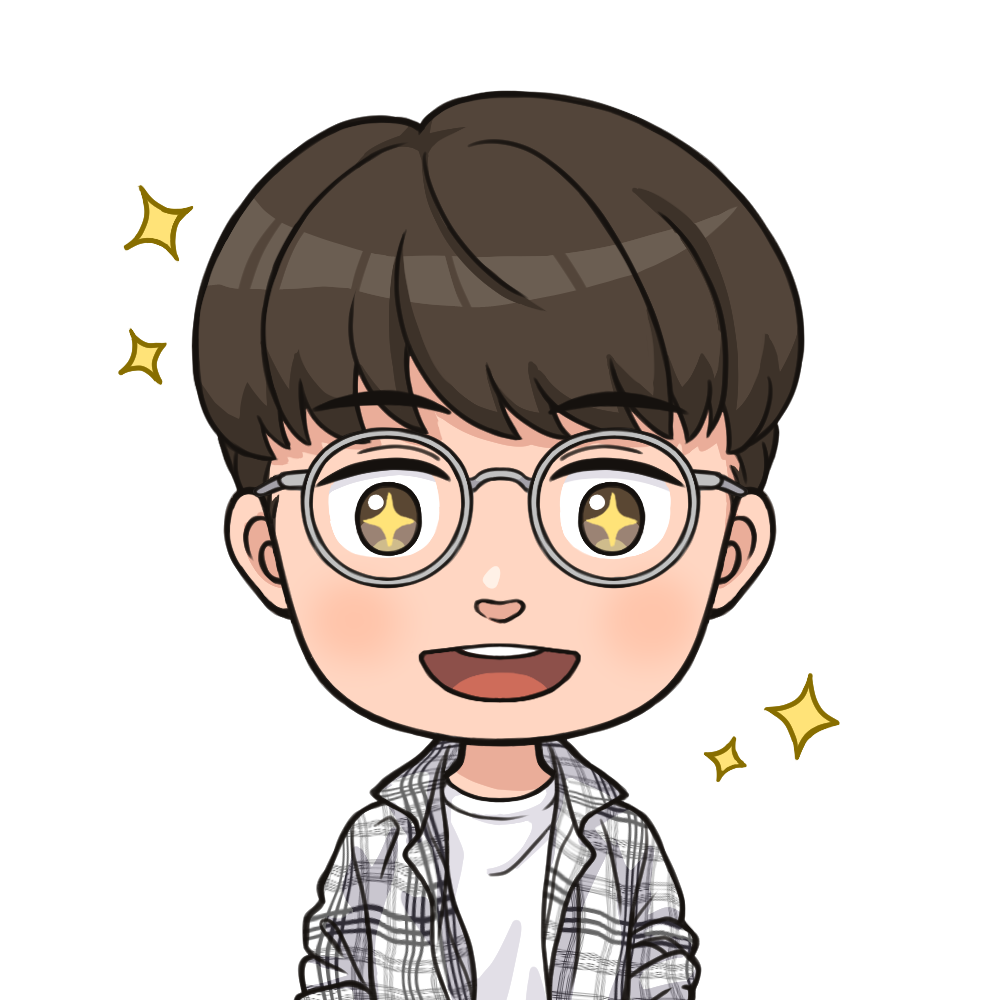
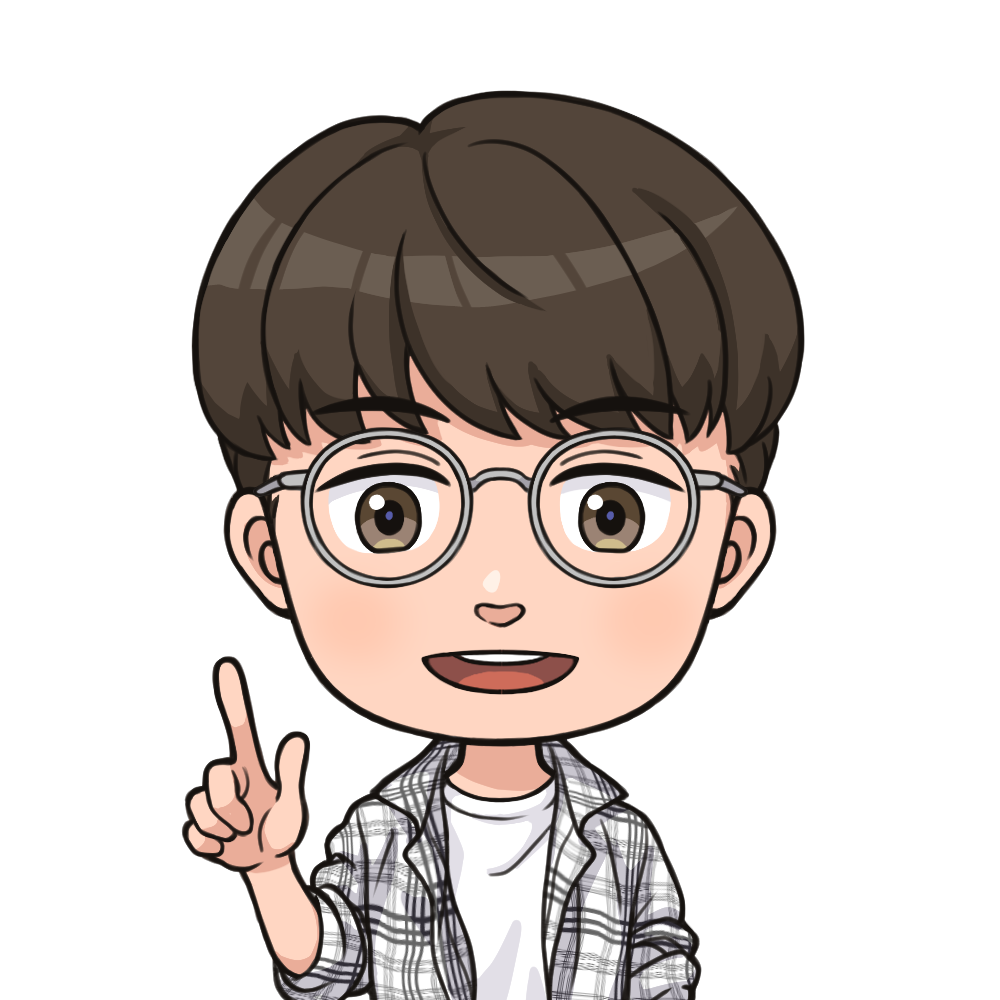
ステージ選択→キャラ選択の順に変更・4キャラ構成に整理・選択画面レイアウト改善・あべむつき画像差し替え・画像キャラのフワフワ動きを控えめに調整

diff --git a/giraffe-star-land.html b/giraffe-star-land.html
@@ -66,18 +66,21 @@ canvas{display:block}
 @keyframes pulse{0%,100%{box-shadow:0 3px 12px rgba(0,0,0,0.3)}50%{box-shadow:0 3px 20px rgba(255,0,0,0.5)}}
 #back-btn{margin-top:14px;background:rgba(255,255,255,0.25);border:2px solid rgba(255,255,255,0.4);color:#fff;padding:10px 36px;border-radius:20px;font-size:16px;cursor:pointer}
 #char-select{position:fixed;inset:0;z-index:20;display:none;flex-direction:column;align-items:center;justify-content:center;background:linear-gradient(180deg,#7AC4E6 0%,#4A90B8 50%,#7EC87E 100%)}
-#char-select h2{font-size:30px;color:#fff;text-shadow:2px 2px 0 rgba(0,0,0,0.3);margin-bottom:18px}
-#char-grid{display:grid;grid-template-columns:repeat(4,1fr);gap:12px;width:min(440px,92vw)}
-.char-card{display:flex;flex-direction:column;align-items:center;gap:4px;padding:12px 4px;border:none;border-radius:16px;background:rgba(255,255,255,0.92);cursor:pointer;box-shadow:0 3px 10px rgba(0,0,0,0.25);transition:transform 0.12s}
-.char-card:active{transform:scale(0.94)}
-.char-emoji{font-size:34px;line-height:1}
-.char-thumb{width:46px;height:46px;border-radius:50%;object-fit:cover;background:#fff}
-.char-name{font-size:12px;font-weight:bold;color:#2a3a4a}
-.char-card.locked{background:rgba(255,255,255,0.35);cursor:not-allowed}
+#char-select h2{font-size:clamp(30px,4.5vw,48px);color:#fff;text-shadow:2px 3px 0 rgba(0,0,0,0.3);margin-bottom:clamp(24px,4vh,44px)}
+#char-grid{display:grid;grid-template-columns:repeat(4,1fr);gap:clamp(14px,2vw,28px);width:min(1000px,92vw)}
+.char-card{display:flex;flex-direction:column;align-items:center;justify-content:center;gap:14px;padding:clamp(20px,3vw,36px) 10px;border:none;border-radius:24px;background:rgba(255,255,255,0.95);cursor:pointer;box-shadow:0 8px 24px rgba(0,0,0,0.28);transition:transform 0.14s,box-shadow 0.14s}
+.char-card:hover{transform:translateY(-6px);box-shadow:0 14px 32px rgba(0,0,0,0.34)}
+.char-card:active{transform:scale(0.96)}
+.char-emoji{font-size:clamp(48px,7vw,84px);line-height:1}
+.char-thumb{width:clamp(80px,11vw,140px);height:clamp(80px,11vw,140px);border-radius:50%;object-fit:cover;background:#fff;box-shadow:0 2px 8px rgba(0,0,0,0.15)}
+.char-name{font-size:clamp(15px,1.7vw,22px);font-weight:bold;color:#2a3a4a}
+.char-card.locked{background:rgba(255,255,255,0.4);cursor:not-allowed}
+.char-card.locked:hover{transform:none;box-shadow:0 8px 24px rgba(0,0,0,0.28)}
 .char-card.locked .char-name{color:#456}
-.char-lock{font-size:10px;color:#c0392b;font-weight:bold}
-#char-back-btn{margin-top:18px;background:rgba(255,255,255,0.25);border:2px solid rgba(255,255,255,0.4);color:#fff;padding:10px 36px;border-radius:20px;font-size:16px;cursor:pointer}
-@media(max-width:420px){#char-grid{grid-template-columns:repeat(3,1fr)}}
+.char-lock{font-size:12px;color:#c0392b;font-weight:bold}
+#char-back-btn{margin-top:clamp(24px,4vh,40px);background:rgba(255,255,255,0.25);border:2px solid rgba(255,255,255,0.45);color:#fff;padding:13px 48px;border-radius:24px;font-size:17px;font-weight:bold;cursor:pointer}
+#char-back-btn:hover{background:rgba(255,255,255,0.35)}
+@media(max-width:560px){#char-grid{grid-template-columns:repeat(2,1fr);width:min(420px,92vw)}}
 #item-help-btn{margin-top:8px;background:rgba(255,200,50,0.3);border:2px solid rgba(255,200,50,0.5);color:#fff;padding:10px 36px;border-radius:20px;font-size:16px;cursor:pointer}
 #item-help-btn:active{background:rgba(255,200,50,0.5)}
 #item-guide{position:fixed;inset:0;z-index:25;display:none;flex-direction:column;align-items:center;justify-content:flex-start;background:linear-gradient(180deg,#1a1a3a 0%,#2a2a5a 100%);overflow-y:auto;-webkit-overflow-scrolling:touch}
@@ -783,8 +786,6 @@ function mkPenguin(){
 const CHARACTERS=[
   {name:"きりんりん", emoji:"🦒", build:()=>mkGiraffe()},
   {name:"ぞうさん",   emoji:"🐘", build:mkElephant},
-  {name:"うさりん",   emoji:"🐰", build:mkRabbit},
-  {name:"ぺんりん",   emoji:"🐧", build:mkPenguin},
   {name:"りょうや",   image:"chars/ryoya.png"},
   {name:"あべむつき", image:"chars/abemutsuki.png"},
 ];
@@ -1972,9 +1973,9 @@ function update(){
   }
   // 画像キャラ：フワフワ上下＋影の伸縮で立体感
   if(gir&&gir.userData&&gir.userData.bobSprite){
-    const bob=Math.sin(rt*5)*0.08;
+    const bob=Math.sin(rt*2.0)*0.045;
     gir.userData.bobSprite.position.y=gir.userData.bobBase+bob;
-    if(gir.userData.bobShadow){const sc=1-bob*0.6;gir.userData.bobShadow.scale.set(sc,sc,sc);}
+    if(gir.userData.bobShadow){const sc=1-bob*0.5;gir.userData.bobShadow.scale.set(sc,sc,sc);}
   }
 
   // Particles
@@ -2027,7 +2028,7 @@ function cleanupGame(){
     btn.className='stg-btn'+(i===4?' death':'');
     btn.style.background=sg.btn;
     btn.textContent=sg.icon+' '+sg.name;
-    btn.addEventListener('click',()=>startStage(i));
+    btn.addEventListener('click',()=>{selStage=i;showScreen('char-select');st='char';});
     container.appendChild(btn);
   });
 })();
@@ -2094,8 +2095,7 @@ function cleanupGame(){
     if(!c.locked){
       btn.addEventListener('click',()=>{
         selChar=i;
-        showScreen('stage-select');st='select';
-        playTitleBGM();
+        startStage(selStage);
       });
     }
     grid.appendChild(btn);
@@ -2103,17 +2103,17 @@ function cleanupGame(){
 })();
 
 document.getElementById('start-btn').addEventListener('click',()=>{
-  showScreen('char-select');st='char';
+  showScreen('stage-select');st='select';
   playTitleBGM();
 });
 
 document.getElementById('char-back-btn').addEventListener('click',()=>{
-  showScreen('title-screen');st='title';
+  showScreen('stage-select');st='select';
   playTitleBGM();
 });
 
 document.getElementById('back-btn').addEventListener('click',()=>{
-  showScreen('char-select');st='char';
+  showScreen('title-screen');st='title';
   playTitleBGM();
 });
 
